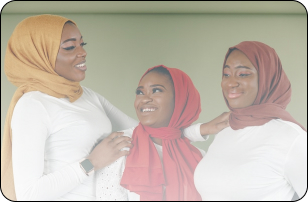
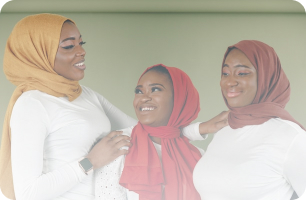
update slider in SimpleSlider v1 and small fix

diff --git a/scripts/slider.js b/scripts/slider.js
@@ -1,17 +1,21 @@
+// Инициализируем все слайдеры
 document.querySelectorAll('.slider').forEach(slider => {
 
+    // достаём важные блоки
     const items = slider.querySelectorAll('.slider__line-item')
     const sliderLine = slider.querySelector('.slider__line')
     const sliderWrap = slider.querySelector('.slider__line-wrap')
     const btnPrev = slider.querySelector('.slider__btn-prev')
     const btnNext = slider.querySelector('.slider__btn-next')
 
+    // достаём настройки
     const setting = slider.getAttribute('items-count') ?
         JSON.parse(slider.getAttribute('items-count')) : {0: 1} ;
     const widthWrap = slider.getAttribute('width-wrap') ? 
         slider.getAttribute('width-wrap') : 1024 ;
     const drag = slider.getAttribute('drag') ? 
         slider.getAttribute('drag') : 'true' ;
+        if (drag != 'false') sliderLine.classList.add('slider__line--dragable')
     const gap = slider.getAttribute('gap') ?
         JSON.parse(slider.getAttribute('gap')) : {0: 1} ;
     const padding = slider.getAttribute('padding') ?
@@ -72,18 +76,16 @@ document.querySelectorAll('.slider').forEach(slider => {
     init()
 
     if (btnPrev) {btnPrev.addEventListener('click', e => {
-        matrix = matrix + widthItem
+        matrix = matrix + widthItem + gap
         rollSlider()
     })}
 
     if (btnNext) {btnNext.addEventListener('click', e => {
-        matrix = matrix - widthItem
+        matrix = matrix - widthItem - gap
         rollSlider()
     })}
 
-    if (drag != 'false') sliderLine.onmousedown = (event) => sliderTouch(event)
-
-    function sliderTouch(event) {
+    if (drag != 'false') sliderLine.onmousedown = (event) => {
         event.preventDefault()
         sliderLine.classList.remove('slider__line--transition')
 
@@ -103,6 +105,33 @@ document.querySelectorAll('.slider').forEach(slider => {
         function onMouseUp(e) {
             document.removeEventListener('mousemove', onMouseMove)
             document.removeEventListener('mouseup', onMouseUp)
+
+            sliderLine.classList.add('slider__line--transition')
+
+            rollSlider()
+        }
+    }
+
+    if (drag != 'false') sliderLine.ontouchstart = (event) => {
+        event.preventDefault()
+        sliderLine.classList.remove('slider__line--transition')
+        
+        matrix = new WebKitCSSMatrix(window.getComputedStyle(sliderLine).transform).m41;
+
+        let shiftX = event.changedTouches[0].clientX - matrix
+
+        document.addEventListener('touchmove', onTouchMove)
+        document.addEventListener('touchend', onTouchUp)
+
+        function onTouchMove(e) { 
+            let value = e.changedTouches[0].clientX - shiftX
+            sliderLine.style.transform = `translate(${value}px)` 
+            matrix = value
+        }
+
+        function onTouchUp(e) {
+            document.removeEventListener('touchmove', onTouchMove)
+            document.removeEventListener('touchend', onTouchUp)
 
             sliderLine.classList.add('slider__line--transition')
 

diff --git a/styles/components/slider.scss b/styles/components/slider.scss
@@ -1,5 +1,3 @@
-@import './../vars.scss';
-
 .slider{
     width: 100%;
     position: relative;
@@ -18,44 +16,12 @@
             transition: all 1s ease;
         }
         
+        &--dragable{
+            cursor: grab;
+        }
     }
 
-    &__btn{
-        position: absolute;
-        top: 50%;
-        transform: translate(0%, -50%);
-
-        border: none;
-        background-color: #00000000;
-
-        &-prev{
-            left: -60px;
-            @include tablet{
-                left: -15px;
-            }
-        }
-
-        &-next{
-            right: -60px;
-            @include tablet{
-                right: -15px;
-            }
-        }
-
-        svg{
-            width: 23px;
-            height: 49px;
-
-            @include tablet{
-                width: 15px;
-                height: 26px;
-            }
-        }
-
-        &:hover{
-            cursor: pointer;
-        }
-
+    &__btn:hover{
+        cursor: pointer;
     }
-
 }

diff --git a/styles/components/slider.css b/styles/components/slider.css
@@ -14,38 +14,8 @@
 .slider__line--transition {
   transition: all 1s ease;
 }
-.slider__btn {
-  position: absolute;
-  top: 50%;
-  transform: translate(0%, -50%);
-  border: none;
-  background-color: rgba(0, 0, 0, 0);
-}
-.slider__btn-prev {
-  left: -60px;
-}
-@media screen and (max-width: 768px) {
-  .slider__btn-prev {
-    left: -15px;
-  }
-}
-.slider__btn-next {
-  right: -60px;
-}
-@media screen and (max-width: 768px) {
-  .slider__btn-next {
-    right: -15px;
-  }
-}
-.slider__btn svg {
-  width: 23px;
-  height: 49px;
-}
-@media screen and (max-width: 768px) {
-  .slider__btn svg {
-    width: 15px;
-    height: 26px;
-  }
+.slider__line--dragable {
+  cursor: grab;
 }
 .slider__btn:hover {
   cursor: pointer;

diff --git a/styles/pages/page-main.scss b/styles/pages/page-main.scss
@@ -228,8 +228,16 @@
 
         &-img{
             position: relative;
-            top: -1px;
-            left: -1px;
+
+            &-image{
+                width: 100%;
+
+                position: relative;
+                top: -1px;
+
+                outline: 1px solid $color-black;
+                border-radius: 15px;
+            }
 
             &-desc{
                 color: $color-white;

diff --git a/styles/pages/page-main.css b/styles/pages/page-main.css
@@ -204,8 +204,13 @@
 }
 .section-material__item-img {
   position: relative;
+}
+.section-material__item-img-image {
+  width: 100%;
+  position: relative;
   top: -1px;
-  left: -1px;
+  outline: 1px solid #000;
+  border-radius: 15px;
 }
 .section-material__item-img-desc {
   color: #fff;
